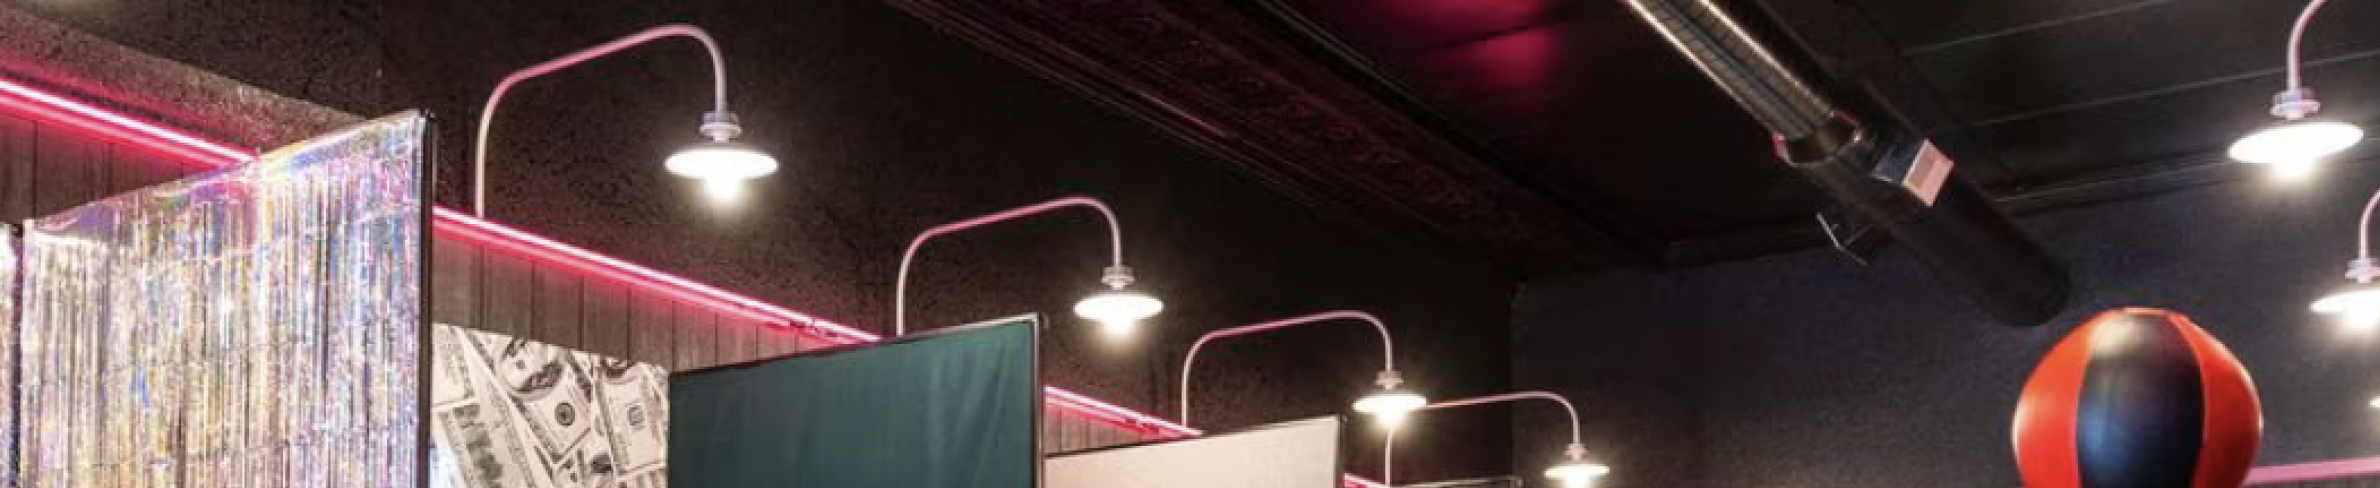
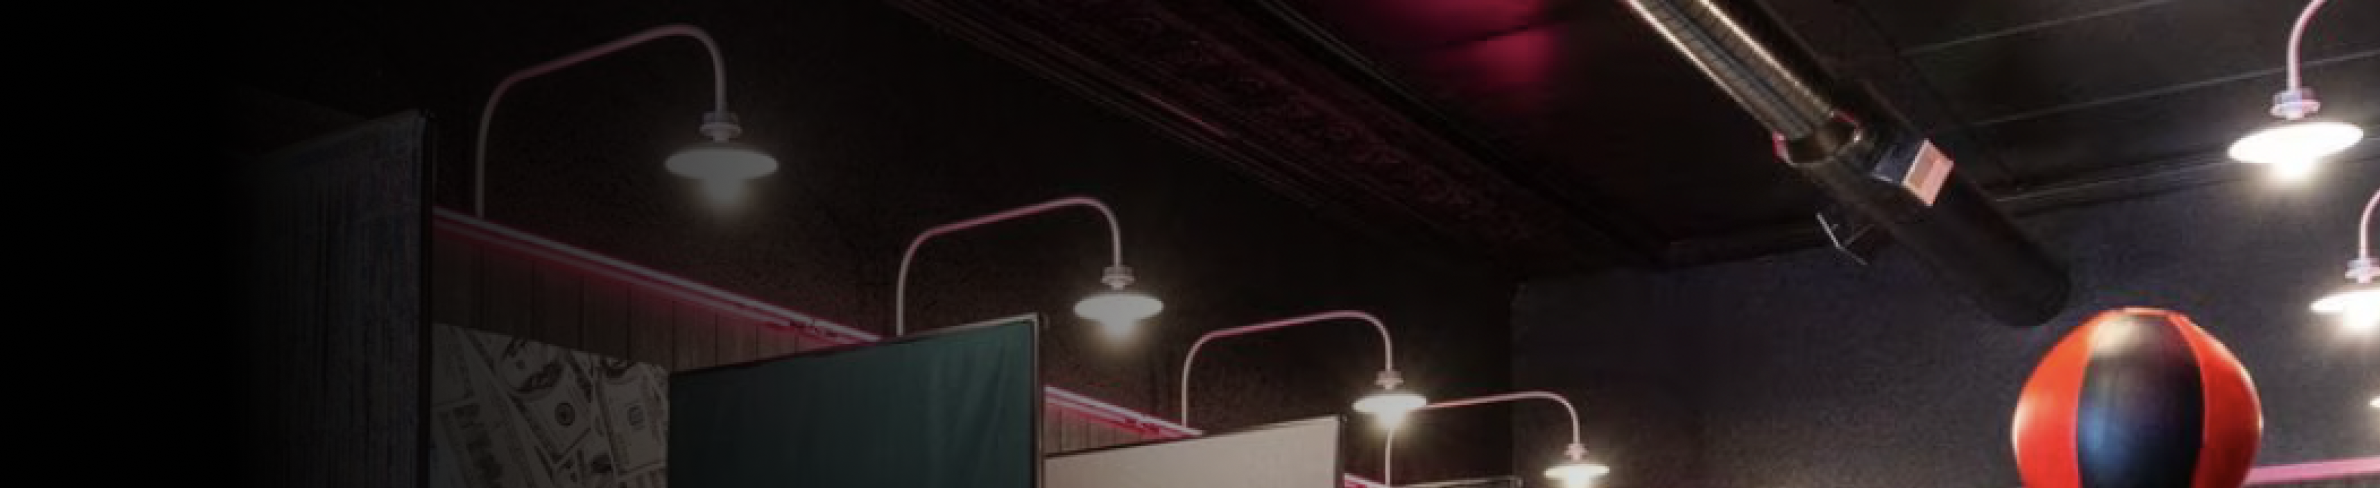
.

diff --git a/src/pages/bookings.vue b/src/pages/bookings.vue
@@ -7,18 +7,20 @@
     <section class="lg:px-20 flex flex-col gap-[16px] px-4 pb-[80px]">
 
         <div class="relative  ">
-            <div class=" relative gradient-cover-booking">
+            <div class="relative">
                 <v-lazy-image src="/assets/images/booking.png" src-placeholder="/assets/images/blankSquare.png"
                     class="lg:max-h-[244px] lg:w-full cursor-pointer lg:block hidden " />
 
                 <v-lazy-image src="/assets/images/bookingMobile1.png" src-placeholder="/assets/images/blankSquare.png"
                     class=" cursor-pointer block lg:hidden " />
+
                 <div
-                    class=" absolute top-0 text-white w-full h-full  grid grid-cols-4 place-content-center lg:px-20 gap-y-[27px] items-center px-[22px] z-[100]">
-                    <div class=" lg:col-span-2 col-span-3">
+                    class=" absolute top-0 text-white w-full h-full  grid grid-cols-5 place-content-center lg:px-20 gap-y-[27px] items-center px-[22px] z-[100]">
+                    <div class=" lg:col-span-3 col-span-4">
                         <h1 class="text-[32px] font-bold pb-[20px]">Hourly Ticket</h1>
                         <p class="lg:text-[18px] text-[16px]">
                             60 Minutes of Selfie Goodness.
+                            <br>
                             Capture moments alone, with your friends/family and create scroll-stopping content.
                         </p>
                     </div>
@@ -30,22 +32,25 @@
                         </a>
                     </div>
                 </div>
+
+
             </div>
         </div>
 
         <div class="relative  ">
-            <div class=" relative gradient-cover-booking">
+            <div class=" relative ">
                 <v-lazy-image src="/assets/images/booking2.png" src-placeholder="/assets/images/blankSquare.png"
                     class=" lg:max-h-[244px] lg:w-full cursor-pointer lg:block hidden " />
 
                 <v-lazy-image src="/assets/images/bookingMobile2.png" src-placeholder="/assets/images/blankSquare.png"
                     class=" cursor-pointer block lg:hidden  " />
                 <div
-                    class=" absolute top-0 text-white w-full h-full  grid grid-cols-4 place-content-center lg:px-20 gap-y-[27px] items-center px-[22px]  z-[100]">
-                    <div class=" lg:col-span-2 col-span-3">
+                    class=" absolute top-0 text-white w-full h-full  grid grid-cols-5 place-content-center lg:px-20 gap-y-[27px] items-center px-[22px]  z-[100]">
+                    <div class=" lg:col-span-3 col-span-4">
                         <h1 class="text-[32px] font-bold pb-[20px]">All Day Pass</h1>
                         <p class="lg:text-[18px] text-[16px]">
                             Explore our Booths and Installations all day.
+                            <br class="lg:block hidden">
                             Come and go as you please without being limited to a timed session.
                         </p>
                     </div>
@@ -64,18 +69,19 @@
 
 
         <div class="relative  ">
-            <div class=" relative gradient-cover-booking">
+            <div class=" relative ">
                 <v-lazy-image src="/assets/images/booking3.png" src-placeholder="/assets/images/blankSquare.png"
                     class="lg:max-h-[244px] lg:w-full cursor-pointer lg:block hidden " />
 
                 <v-lazy-image src="/assets/images/bookingMobile2.png" src-placeholder="/assets/images/blankSquare.png"
                     class=" cursor-pointer block lg:hidden  " />
                 <div
-                    class=" absolute top-0 text-white w-full h-full  grid grid-cols-4 place-content-center lg:px-20 gap-y-[27px] items-center px-[22px] z-[100]">
-                    <div class=" lg:col-span-2 col-span-3">
+                    class=" absolute top-0 text-white w-full h-full  grid grid-cols-5 place-content-center lg:px-20 gap-y-[27px] items-center px-[22px] z-[100]">
+                    <div class=" lg:col-span-3 col-span-4">
                         <h1 class="text-[32px] font-bold pb-[20px]">Private Events</h1>
                         <p class="lg:text-[18px] text-[16px]">
                             Enjoy Exclusivity & Freedom.
+                            <br>
                             Rent our space for your private events and video shoots.
                         </p>
                     </div>
@@ -112,6 +118,18 @@ import Header from '@/components/sections/header.vue';
     top: 0;
     width: 100%;
     height: 100%;
-    background: linear-gradient(to left, rgba(0, 0, 0, 0.352), rgba(0, 0, 0, 0.639));
+    background: linear-gradient(to right, #000000, #0000007D);
+}
+
+
+.gradient-cover-booking-mobile::after{
+    content: '';
+    position: absolute;
+    left: 0;
+    top: 0;
+    width: 100%;
+    height: 100%;
+    background: linear-gradient(to top, #000000, #00000000);
+    
 }
 </style>

diff --git a/src/pages/about.vue b/src/pages/about.vue
@@ -1,7 +1,7 @@
 <template>
     <Header></Header>
     <section class=" relative ">
-        <div class=" gradient-cover-about  ">
+        <div class=" gradient-cover-about relative">
             <v-lazy-image src="/assets/images/about1.png" src-placeholder="/assets/images/blankSquare.png"
                 class=" h-screen  cursor-pointer w-full lg:block hidden" />
 
@@ -9,7 +9,7 @@
                 class=" h-[767px] cursor-pointer w-full  block lg:hidden" />
 
                 
-            <div class="w-full h-fit absolute text-center text-white z-50 top-0 flex justify-center lg:px-0 px-[33px]  pt-[71px] lg:pt-[121px] ">
+            <div class=" w-full lg:h-screen h-[767px] overflow-auto absolute text-center text-white z-50 top-0 flex justify-center lg:px-0 px-[33px]  pt-[71px] lg:pt-[87px] ">
                 <div class="lg:w-[662px] grid lg:gap-11 gap-8">
                     <h1 class="lg:text-[116px] text-[40px] font-[700] ">About Us</h1>
 
@@ -50,28 +50,28 @@
     </section>
 
     <section id="gallery" class="min-h-screen ">
-        <div class="relative lg:px-28 px-[17px] pb-[32px]">
+        <div class="relative lg:px-28 px-[17px] lg:pb-[110px] pb-[32px]">
 
 
             <div class="w-full h-full  text-center text-[#4D4D4D] z-50 top-0 grid place-content-center pt-[71px] pb-[75px] ">
                 <div class="lg:w-[662px] grid h-fit">
                     <h1 class="lg:text-[116px] text-[40px] pb-[32px] font-[700]">Our Gallery</h1>
 
-                    <div class="grid gap-[20px] pb-[52px]">
-                        <p class="text-[18px]">
-                            See our enchanting spaces, installations and themes
+                    <div class="grid gap-[20px] pb-[52px] lg:px-0 px-[22px]">
+                        <p class=" text-lg font-bold">
+                            See our enchanting spaces, <br class="lg:hidden" >installations and themes
                         </p>
 
                         <p class="font-400">
                             Our props, equipment and staff are always available to make your personal or professional shoots
-                            fun, productive and everything in-between. Have a look.
+                            fun, productive and everything in-between. <br class="lg:hidden" >Have a look.
                         </p>
                     </div>
 
                     <div class="flex justify-center items-center gap-2"> 
                         <span>Let's Connect</span>
-                        <facebook :fill="'black'"></facebook>
-                        <instagram :fill="'black'"></instagram>
+                        <facebook :fill="'#4C4C4C'"></facebook>
+                        <instagram :fill="'#4C4C4C'"></instagram>
                     </div>
                 </div>
             </div>
@@ -85,13 +85,13 @@
                 <v-lazy-image src="/assets/images/about4.png" src-placeholder="/assets/images/blankSquare.png"
                     class="  object-cover cursor-pointer max-h-[523px] w-full " />
                 <v-lazy-image src="/assets/images/about5.png" src-placeholder="/assets/images/blankSquare.png"
-                    class=" h-full  object-cover cursor-pointer max-h-[523px] w-full " />
+                    class=" h-full  object-cover cursor-pointer max-h-[523px] w-full  lg:col-span-2 " />
                 <v-lazy-image src="/assets/images/about6.png" src-placeholder="/assets/images/blankSquare.png"
                     class="  object-cover cursor-pointer max-h-[523px] w-full " />
                 <v-lazy-image src="/assets/images/about7.png" src-placeholder="/assets/images/blankSquare.png"
                     class="  object-cover cursor-pointer max-h-[523px] w-full " />
                 <v-lazy-image src="/assets/images/about8.png" src-placeholder="/assets/images/blankSquare.png"
-                    class="h-full   object-cover cursor-pointer max-h-[523px] w-full " /> 
+                    class="h-full   object-cover cursor-pointer max-h-[523px] w-full lg:col-span-2" /> 
             </div>
         </div>
     </section>
@@ -111,15 +111,15 @@ import instagram from "@/components/icons/instagram.vue";
 
 
 <style>
-.gradient-cover-about::after {
+/* .gradient-cover-about::after {
     content: '';
     position: absolute;
     left: 0;
     top: 0;
     width: 100%;
     height: 100%;
-    background: linear-gradient(to left, rgba(255, 255, 255, 0.108), rgba(0, 0, 0, 0.883));
-}
+    background: linear-gradient(to right, #000000, #00000000);
+} */
 
 
 .gradient-cover-gallery::after {

diff --git a/src/components/modules/home/works.vue b/src/components/modules/home/works.vue
@@ -13,17 +13,19 @@
                 </div>
             </div>
 
-            <div class="works-box-parent grid lg:grid-cols-3 lg:gap-2 gap-6 lg:flex-nowrap flex-wrap lg:pt-[66px] pt-[48px] h-fit">
+            <div
+                class="works-box-parent grid lg:grid-cols-3 lg:gap-2 gap-6 lg:flex-nowrap flex-wrap lg:pt-[66px] pt-[48px] h-fit">
                 <div class="works-box  relative  lg:h-[558px] md:h-full min-h-[558px]   ">
                     <div class="gradient-cover-works relative h-full">
                         <v-lazy-image src="/assets/images/how/how1.png" src-placeholder="/assets/images/blankRec.png"
                             class="item cursor-pointer h-full w-full relative" />
 
-                        <div class="absolute bottom-0 w-full  text-white z-50 grid gap-[72px] p-8">
-                            <div class="grid gap-[12px] pr-8">
+                        <div class="absolute bottom-0 w-full  text-white z-50 grid gap-[72px] p-[24px]">
+                            <div class="grid gap-3 ">
                                 <span class="text-[18px]">Booking Tickets</span>
                                 <span class="text-[14px]">
                                     Start by booking your session at our studio.
+                                    <br>
                                     You can reserve your slot online or give us a call.
                                 </span>
                             </div>
@@ -53,13 +55,13 @@
                         <v-lazy-image src="/assets/images/how/how2.png  " src-placeholder="/assets/images/blankRec.png"
                             class="item cursor-pointer   relative  h-full w-full" />
 
-                        <div class="absolute bottom-0 w-full  text-white z-50 grid gap-8 p-8">
-                            <div class="grid gap-3 pr-8">
+                        <div class="absolute bottom-0 w-full  text-white z-50 grid gap-[72px] p-[24px]">
+                            <div class="grid gap-3 ">
                                 <span class="text-[18px]">What to bring</span>
                                 <span class="text-[14px]">
-                                    On the day of your session, arrive at our studio early. Our friendly staff will
-                                    welcome
-                                    you and get you set up.
+                                    On the day of your session, arrive at our studio early.
+                                    <br>
+                                    Our friendly staff willwelcome you and get you set up.
                                 </span>
                             </div>
 
@@ -86,8 +88,8 @@
                         <v-lazy-image src="/assets/images/how/how3.png" src-placeholder="/assets/images/blankRec.png"
                             class="item cursor-pointer  relative  h-full w-full" />
 
-                        <div class="absolute bottom-0 w-full  text-white z-50 grid gap-8 p-8">
-                            <div class="grid gap-3 pr-8">
+                        <div class="absolute bottom-0 w-full  text-white z-50 grid gap-[72px] p-[24px]">
+                            <div class="grid gap-3 ">
                                 <span class="text-[18px]">What we have</span>
                                 <span class="text-[14px]">
                                     Our studio is set up to make your experience memorable, hitch-free and very

diff --git a/src/components/sections/contact.vue b/src/components/sections/contact.vue
@@ -2,11 +2,13 @@
     <section id="contact" class="lg:min-h-screen   bg-cover  relative">
         <div class="gradient-cover-contact">
             <v-lazy-image src="/assets/images/contact.png" src-placeholder="/assets/images/blankSquare.png"
-                class="item cursor-pointer lg:h-screen w-full h-[562px]  object-cover relative gradient-cover-contact" />
+                class="item cursor-pointer lg:h-screen w-full h-[562px]  object-cover relative gradient-cover-contact hidden md:block" />
 
+            <v-lazy-image src="/assets/images/contactMobile.png"
+                src-placeholder="/assets/images/blankSquare.png" class="md:hidden block h-[562px] w-full"></v-lazy-image>
 
             <div
-                class="grid  text-white absolute top-0 w-full lg:h-fit h-[562px]  z-50 lg:pt-[107px] pt-[53px] lg:pl-[130px] pl-[17px] ">
+                class="grid  text-white absolute top-0 w-full h-fit  z-50 lg:pt-[107px] pt-[53px] lg:pl-[130px] pl-[17px] ">
                 <h1 class="text-white text-[64px] font-[700] leading-[64px] pb-[42px]">
                     Contact us
                 </h1>
@@ -21,21 +23,24 @@
                     </p>
                 </div>
 
-                <span class="text-[#999999] pb-[14px]">Social Media</span>
+                <div class="grid h-fit gap-[6px]">
+                    <span class="text-[#999999] pb-[14px]">Social Media</span>
 
-                <div class="flex gap-[14px] items-center pb-[44px]">
-                    <div class="flex gap-2">
-                        <facebook :fill="'white'"></facebook>
-                        <twitter :fill="'white'"></twitter>
-                        <instagram :fill="'white'"></instagram>
+                    <div class="flex gap-[14px] items-center pb-[44px] ">
+                        <div class="flex gap-2">
+                            <facebook :fill="'white'"></facebook>
+                            <twitter :fill="'white'"></twitter>
+                            <instagram :fill="'white'"></instagram>
+                        </div>
+                        <span>Selfieworx</span>
                     </div>
-                    <span>Selfieworx</span>
+                    
                 </div>
+
                 <a href="https://maps.app.goo.gl/atEZxorx88mgqceL8" target="_blank"
                     class="h-fit  text-white bg-primary-700 hover:bg-primary-800 focus:ring-4 focus:ring-primary-300 font-medium  text-sm px-[11px] py-[8px] focus:outline-none border border-white rounded-md w-fit ">
                     See Map
                 </a>
-
             </div>
         </div>
     </section>
@@ -56,6 +61,8 @@ import instagram from "@/components/icons/instagram.vue"
     top: 0;
     width: 100%;
     height: 100%;
-    background: linear-gradient(to left, rgba(245, 246, 252, 0), rgba(0, 0, 0, 0.684));
+    background: linear-gradient(to right, #000000, #00000000);
+
+
 }
 </style>

diff --git a/src/components/sections/footer.vue b/src/components/sections/footer.vue
@@ -12,7 +12,7 @@
                     <a href="/#contact">Contact us</a>
                     <a href="/about">About Studio</a>
                     <a href="/#how" >How it works</a>
-                    <a href="/#faq" >FAQs</a>
+                    <a href="/#faqs" >FAQs</a>
                 </div>
             </div>
 
@@ -24,11 +24,11 @@
                 </div>
             </div>
 
-            <div class=" grid lg:text-[16px] text-[14px] col-span-4 lg:place-content-center lg:text-center ">
+            <div class=" grid lg:text-[16px] text-[14px] col-span-4 lg:place-content-center lg:text-center text-[#7F7F7F]">
                 <div class="flex lg:items-center lg:gap-11 gap-4">
                     <div class="flex items-center gap-2 ">
                         <envelope></envelope>
-                        <a href="mailto:hello@selfieworkx.com">hello@selfieworkx.com</a>
+                        <a href="mailto:hello@selfieworkx.com" >hello@selfieworkx.com</a>
                     </div>
                     <div class="flex items-center gap-2">
                         <phone></phone>
@@ -61,4 +61,6 @@ import envelope from "@/components/icons/envelope.vue"
 
 
 
+
 </script>
+

diff --git a/src/components/modules/home/questions.vue b/src/components/modules/home/questions.vue
@@ -1,5 +1,5 @@
 <template>
-    <section id="faq" class="min-h-screen bg-[#FCFCFC] lg:pt-[63px] pt-[54px] lg:px-[124px] pb-[66px] px-[17px] ">
+    <section id="faqs" class="min-h-screen bg-[#FCFCFC] lg:pt-[63px] pt-[54px] lg:px-[124px] pb-[66px] px-[17px] ">
         <div class="h-fit grid lg:gap-[47px] gap-[32px]">
             <h1 class="text-[#4D4D4D] lg:text-[64px] text-[40px] font-[700]  text-start leading-[64px]">
                 Frequently <br class="lg:hidden"> asked questions</h1>
@@ -199,7 +199,7 @@
             </div>
         </div>
 
-        <div class="text-center pt-[46px] hover:underline lg:hidden block " @click="dropMore($event.target)">
+        <div class="text-center pt-[46px] hover:underline lg:hidden block font-bold" @click="dropMore($event.target)">
             See all
         </div>
 

diff --git a/src/components/sections/header.vue b/src/components/sections/header.vue
@@ -79,7 +79,7 @@
                             <a href="/#contact" class="block  pr-4 pl-3     lg:font-[400] font-[700] ">Contact</a>
                         </li>
                         <li>
-                            <a href="/#faq" class="block  pr-4 pl-3     lg:font-[400] font-[700] ">Faq</a>
+                            <a href="/#faqs" class="block  pr-4 pl-3     lg:font-[400] font-[700] ">FAQs</a>
                         </li>
 
                     </ul>

diff --git a/src/App.vue b/src/App.vue
@@ -47,15 +47,7 @@ onMounted(() => {
     background: linear-gradient(to bottom, rgba(255, 255, 255, 0.108), rgba(0, 0, 0, 0.7));
 }
 
-.gradient-cover-contact::after {
-    content: '';
-    position: absolute;
-    left: 0;
-    top: 0;
-    width: 100%;
-    height: 100%;
-    background: linear-gradient(to left, rgba(245, 246, 252, 0), rgba(0, 0, 0, 0.684));
-}
+
 
 /* .slide-leave-from {
     opacity: 1;
